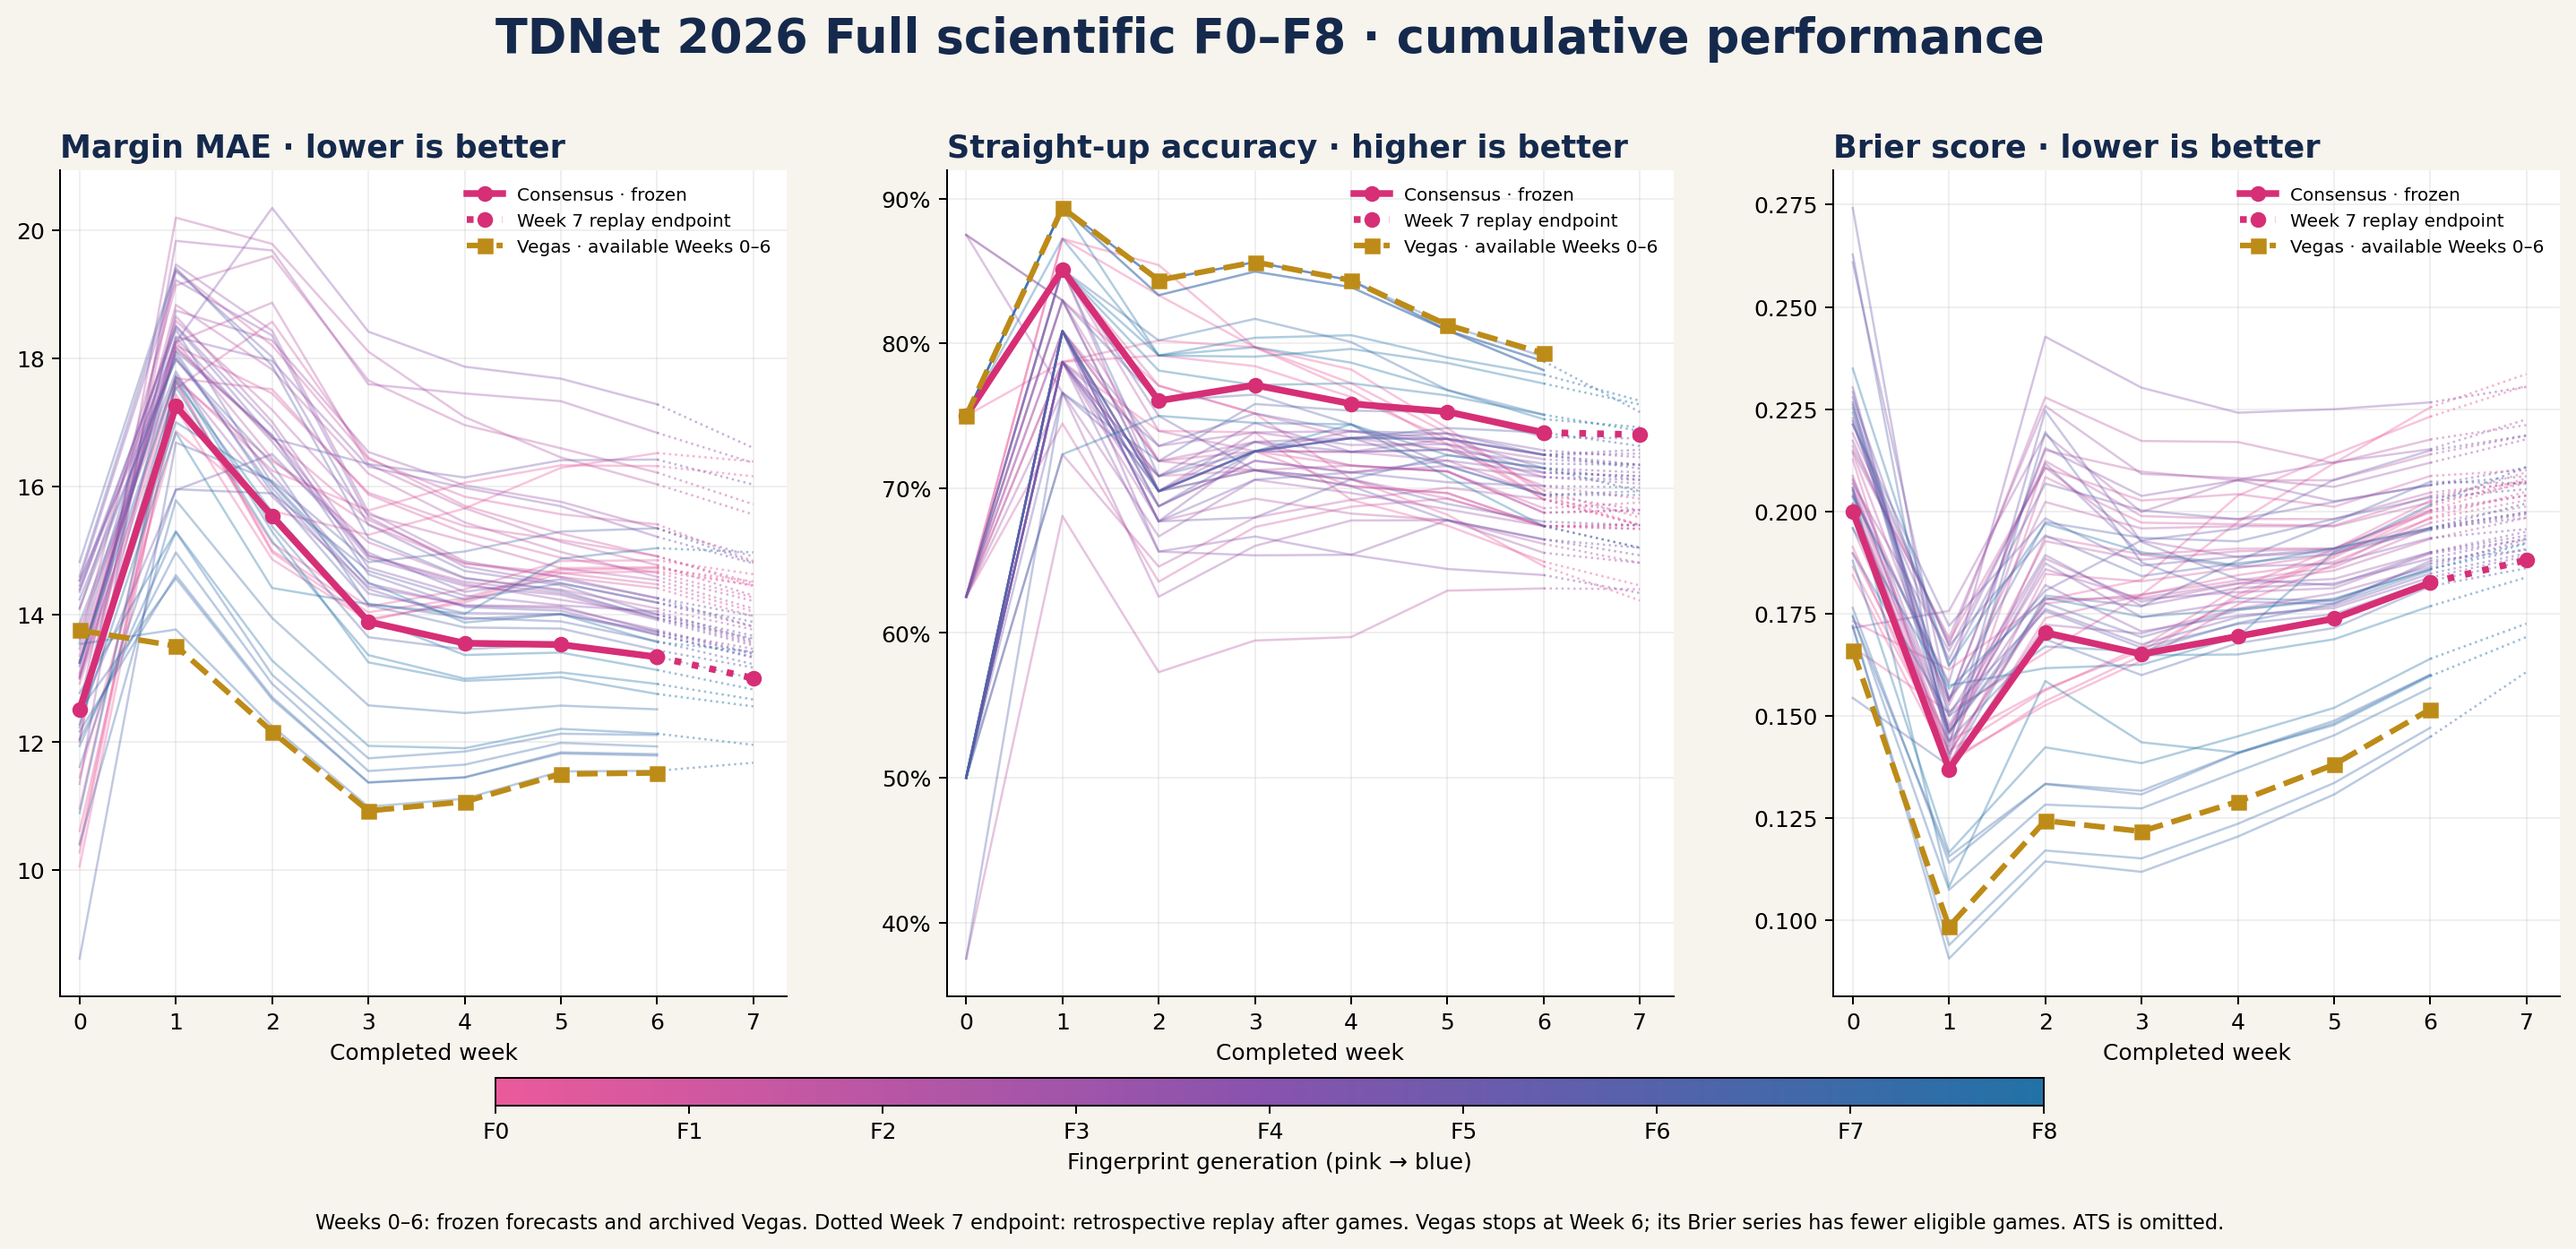
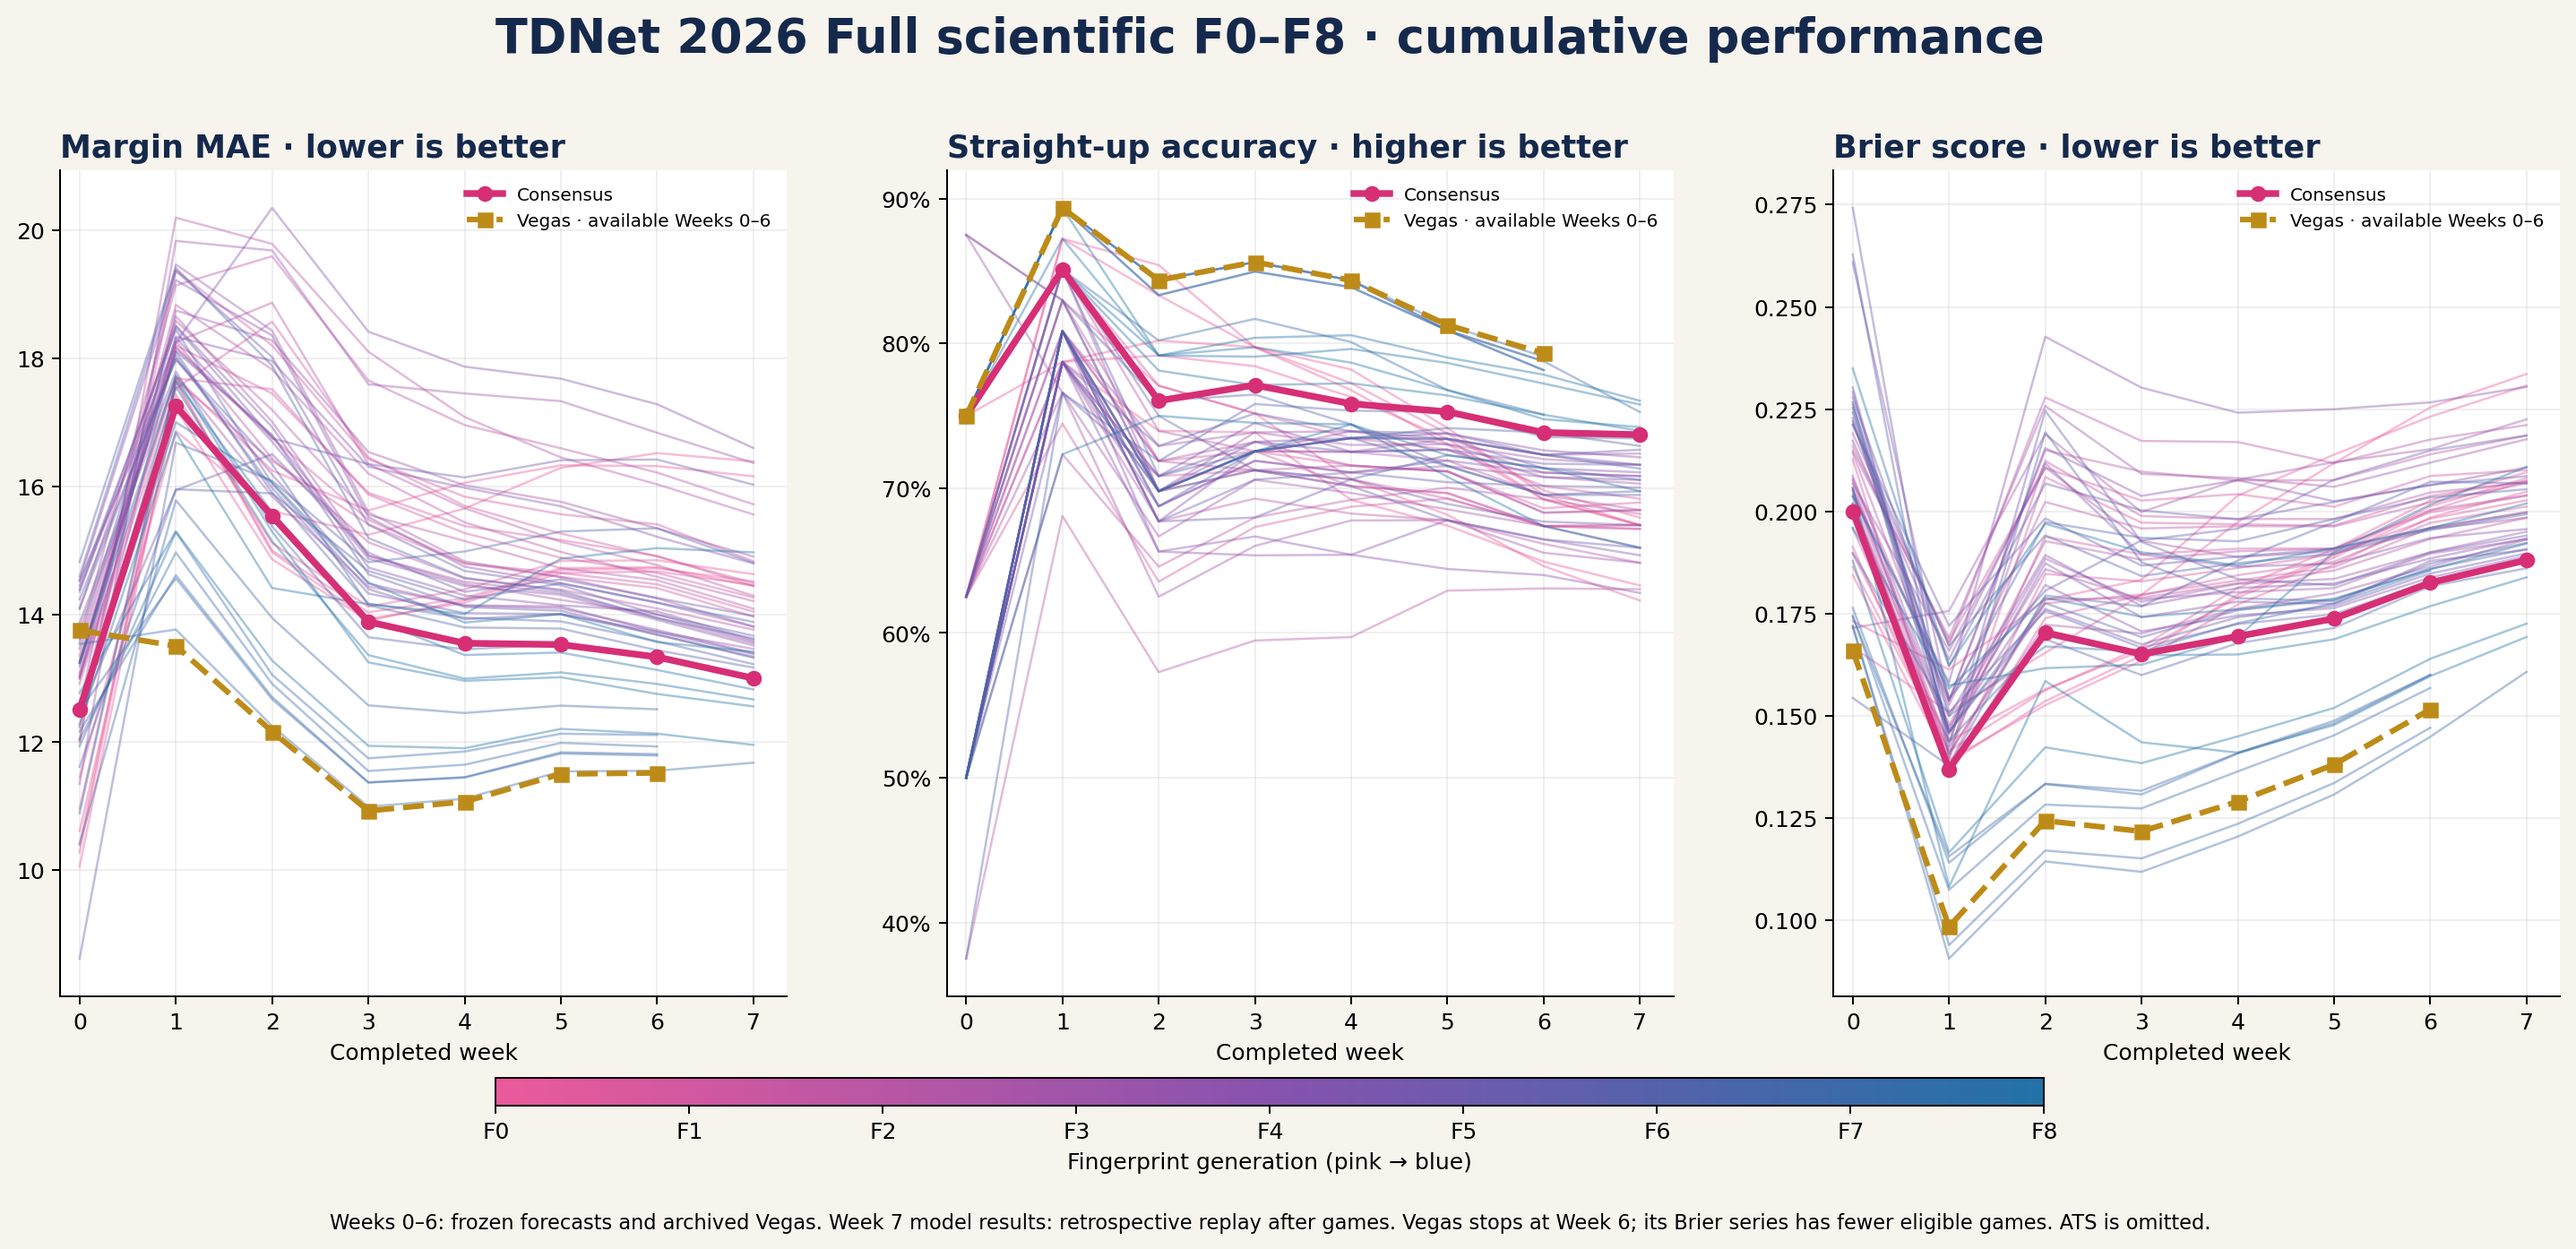
Use continuous cumulative trajectories

diff --git a/scripts/publication/build_2026_week07_cumulative_charts.py b/scripts/publication/build_2026_week07_cumulative_charts.py
@@ -209,15 +209,10 @@ def _plot_trajectory(data: pd.DataFrame, title: str, path: Path) -> None:
         for name, group in data.loc[data.series_type.eq("model")].groupby("model_name"):
             stage = int(name.split("_F", 1)[1].split("_", 1)[0]) if scientific else 0
             color = colors(stage / max_stage) if scientific else "#647D98"
-            frozen = group.loc[group.through_week.le(6)].sort_values("through_week")
-            axis.plot(frozen.through_week, frozen[metric], color=color, alpha=0.35, lw=1)
-            endpoint = group.loc[group.through_week.ge(6)].sort_values("through_week")
-            axis.plot(endpoint.through_week, endpoint[metric], color=color, alpha=0.45, lw=1, ls=":")
+            group = group.sort_values("through_week")
+            axis.plot(group.through_week, group[metric], color=color, alpha=0.4, lw=1)
         consensus = data.loc[data.series_type.eq("consensus")].sort_values("through_week")
-        frozen = consensus.loc[consensus.through_week.le(6)]
-        endpoint = consensus.loc[consensus.through_week.ge(6)]
-        axis.plot(frozen.through_week, frozen[metric], color="#D62F76", lw=3, marker="o", label="Consensus · frozen")
-        axis.plot(endpoint.through_week, endpoint[metric], color="#D62F76", lw=3, ls=":", marker="o", label="Week 7 replay endpoint")
+        axis.plot(consensus.through_week, consensus[metric], color="#D62F76", lw=3, marker="o", label="Consensus")
         vegas = data.loc[data.series_type.eq("vegas")].sort_values("through_week")
         axis.plot(vegas.through_week, vegas[metric], color="#BD8B17", lw=2.5,
                   ls="--", marker="s", label="Vegas · available Weeks 0–6")
@@ -242,7 +237,7 @@ def _plot_trajectory(data: pd.DataFrame, title: str, path: Path) -> None:
         bar.set_ticklabels([f"F{i}" for i in range(max_stage + 1)])
         bar.set_label("Fingerprint generation (pink → blue)")
     fig.text(0.5, 0.02,
-             "Weeks 0–6: frozen forecasts and archived Vegas. Dotted Week 7 endpoint: retrospective replay after games. "
+             "Weeks 0–6: frozen forecasts and archived Vegas. Week 7 model results: retrospective replay after games. "
              "Vegas stops at Week 6; its Brier series has fewer eligible games. ATS is omitted.",
              ha="center", fontsize=9)
     fig.savefig(path, dpi=180, bbox_inches="tight", facecolor=fig.get_facecolor())
@@ -364,7 +359,7 @@ def main() -> None:
     readme = [
         "# 2026 cumulative performance through Week 7",
         "",
-        "Margin (33), original scientific F0–F6 (42), and full scientific F0–F8 have current model and consensus CSVs and figures here. The full roster had 54 models through Week 6 and 49 replayable cells in Week 7; five F7 market-dependent models stop at Week 6. Weeks 0–6 are frozen pregame forecasts. Week 7 is a 59-game retrospective replay made after the games; the dotted endpoint is not a prospective result. Published Vegas MAE and Brier baselines appear through Week 6 only; their Week 7 point is missing because no historical Week 7 market snapshot was frozen. The Week 7 scorecards retain a separate 325-game Vegas row clearly labeled as stopping at Week 6. Vegas Brier uses fewer eligible games than the model rows. ATS is omitted from these new figures.",
+        "Margin (33), original scientific F0–F6 (42), and full scientific F0–F8 have current model and consensus CSVs and figures here. The full roster had 54 models through Week 6 and 49 replayable cells in Week 7; five F7 market-dependent models stop at Week 6. Weeks 0–6 are frozen pregame forecasts. Week 7 is a 59-game retrospective replay made after the games, not a prospective result; this is stated in the figure subtext. Published Vegas MAE and Brier baselines appear through Week 6 only; their Week 7 point is missing because no historical Week 7 market snapshot was frozen. The Week 7 scorecards retain a separate 325-game Vegas row clearly labeled as stopping at Week 6. Vegas Brier uses fewer eligible games than the model rows. ATS is omitted from these new figures.",
         "",
         "The expanded F0–F19 research cohort (120 model cells) now has a common-cohort scorecard through Week 7 in `scientific_f0_f19/`. Weeks 6–7 were reconstructed after the games from score-free states and are marked as retrospective. Week 7 F7, F17-market, and F19 used market lines retrieved after the games; Week 7 F8 had missing market fields imputed. One Week 6 F17/F19 game needed an ex-post market fallback. The archived Vegas comparator stops at Week 6. This backfill is exploratory and cannot be counted as prospective forecast performance. A separate complete 53-game Week 8 pregame research forecast is at `publication/2026/week_08/pre_game/scientific/full_f0_f19/`; it has no outcome scores yet.",
         "",

diff --git a/scripts/publication/publish_2026_week06_07_f0_f19_backfill.py b/scripts/publication/publish_2026_week06_07_f0_f19_backfill.py
@@ -26,8 +26,9 @@ HISTORY = PUB / "week_05/post_game/scientific/current_season_f0_f19/scientific_2
 GAMES = ROOT / "data/raw/cfbd/v2/games/2026.parquet"
 ROSTER = ("M1", "M2", "M3", "M4", "M5", "M10")
 STAGES = tuple(f"F{i}" for i in range(17)) + ("F17-market", "F18", "F19")
-MODEL_STYLES = {"M1": "-", "M2": "--", "M3": ":", "M4": "-.",
-                "M5": (0, (5, 1.5, 1, 1.5)), "M10": (0, (1, 1))}
+MODEL_STYLES = {"M1": "-", "M2": (0, (9, 3)), "M3": (0, (6, 3)),
+                "M4": (0, (10, 3, 4, 3)), "M5": (0, (7, 2, 3, 2)),
+                "M10": (0, (4, 2))}
 
 
 def digest(path: Path) -> str:
@@ -174,19 +175,11 @@ def trajectory(performance: pd.DataFrame, path: Path) -> None:
             group = group.sort_values("through_week")
             stage, model_id = name.removeprefix("scientific_").rsplit("_", 1)
             color = colors(STAGES.index(stage) / 19)
-            early = group.loc[group.through_week.le(5)]
-            late = group.loc[group.through_week.ge(5)]
-            axis.plot(early.through_week, early[column], color=color,
+            axis.plot(group.through_week, group[column], color=color,
                       alpha=.43, lw=1.05, ls=MODEL_STYLES[model_id], zorder=2)
-            axis.plot(late.through_week, late[column], color=color,
-                      alpha=.43, lw=1.05, ls=":", zorder=2)
         consensus = performance.loc[performance.series_type.eq("consensus")].sort_values("through_week")
-        axis.plot(consensus.loc[consensus.through_week.le(5), "through_week"],
-                  consensus.loc[consensus.through_week.le(5), column], color="#D62F76", lw=3, marker="o",
-                  label="F0–F19 consensus · original Weeks 1–5")
-        axis.plot(consensus.loc[consensus.through_week.ge(5), "through_week"],
-                  consensus.loc[consensus.through_week.ge(5), column], color="#D62F76", lw=3, ls=":", marker="o",
-                  label="Weeks 6–7 retrospective")
+        axis.plot(consensus.through_week, consensus[column], color="#D62F76", lw=3, marker="o",
+                  label="F0–F19 consensus")
         vegas = performance.loc[performance.series_type.eq("vegas")].sort_values("through_week")
         axis.plot(vegas.through_week, vegas[column], color="#AE7F1C", lw=2.6, ls="--", marker="s",
                   label="Vegas · archived through Week 6")
@@ -216,8 +209,8 @@ def trajectory(performance: pd.DataFrame, path: Path) -> None:
     fig.legend(handles=styles, loc="lower center", bbox_to_anchor=(.5, .04),
                ncol=4, frameon=False, fontsize=9)
     fig.text(.5, .007,
-             "263 common Weeks 1–5 games + 58 Week 6 + 59 Week 7. Dotted model/consensus segments are retrospective. "
-             "Week 7 F7/F17/F19 use ex-post market lines; Vegas stops at Week 6.",
+             "263 common Weeks 1–5 games + 58 Week 6 + 59 Week 7. Weeks 6–7 model results were reconstructed after games; "
+             "Week 7 F7/F17/F19 use ex-post market lines. Vegas stops at Week 6.",
              ha="center", fontsize=9)
     fig.savefig(path, dpi=180, bbox_inches="tight", facecolor=fig.get_facecolor())
     plt.close(fig)

diff --git a/publication/2026/week_07/post_game/retrospective_replay/cumulative/README.md b/publication/2026/week_07/post_game/retrospective_replay/cumulative/README.md
@@ -1,6 +1,6 @@
 # 2026 cumulative performance through Week 7
 
-Margin (33), original scientific F0–F6 (42), and full scientific F0–F8 have current model and consensus CSVs and figures here. The full roster had 54 models through Week 6 and 49 replayable cells in Week 7; five F7 market-dependent models stop at Week 6. Weeks 0–6 are frozen pregame forecasts. Week 7 is a 59-game retrospective replay made after the games; the dotted endpoint is not a prospective result. Published Vegas MAE and Brier baselines appear through Week 6 only; their Week 7 point is missing because no historical Week 7 market snapshot was frozen. The Week 7 scorecards retain a separate 325-game Vegas row clearly labeled as stopping at Week 6. Vegas Brier uses fewer eligible games than the model rows. ATS is omitted from these new figures.
+Margin (33), original scientific F0–F6 (42), and full scientific F0–F8 have current model and consensus CSVs and figures here. The full roster had 54 models through Week 6 and 49 replayable cells in Week 7; five F7 market-dependent models stop at Week 6. Weeks 0–6 are frozen pregame forecasts. Week 7 is a 59-game retrospective replay made after the games, not a prospective result; this is stated in the figure subtext. Published Vegas MAE and Brier baselines appear through Week 6 only; their Week 7 point is missing because no historical Week 7 market snapshot was frozen. The Week 7 scorecards retain a separate 325-game Vegas row clearly labeled as stopping at Week 6. Vegas Brier uses fewer eligible games than the model rows. ATS is omitted from these new figures.
 
 The expanded F0–F19 research cohort (120 model cells) now has a common-cohort scorecard through Week 7 in `scientific_f0_f19/`. Weeks 6–7 were reconstructed after the games from score-free states and are marked as retrospective. Week 7 F7, F17-market, and F19 used market lines retrieved after the games; Week 7 F8 had missing market fields imputed. One Week 6 F17/F19 game needed an ex-post market fallback. The archived Vegas comparator stops at Week 6. This backfill is exploratory and cannot be counted as prospective forecast performance. A separate complete 53-game Week 8 pregame research forecast is at `publication/2026/week_08/pre_game/scientific/full_f0_f19/`; it has no outcome scores yet.
 
